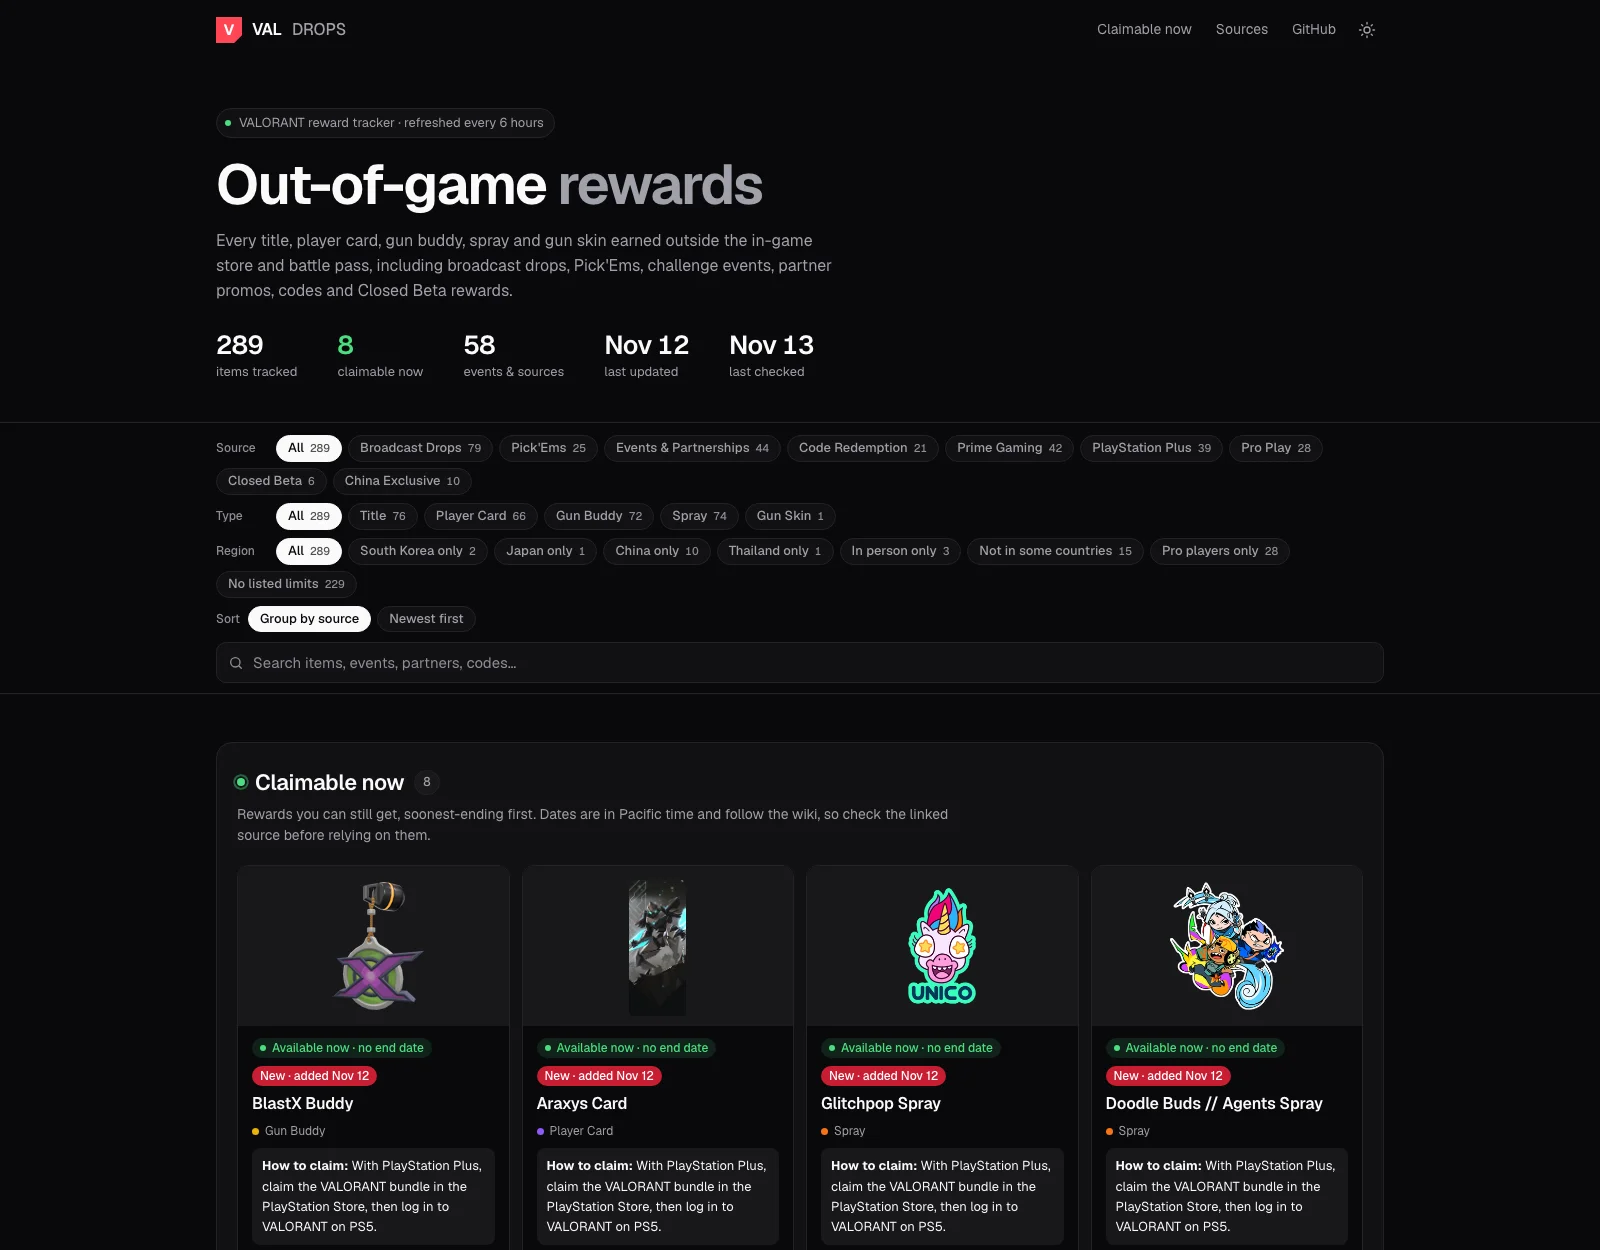
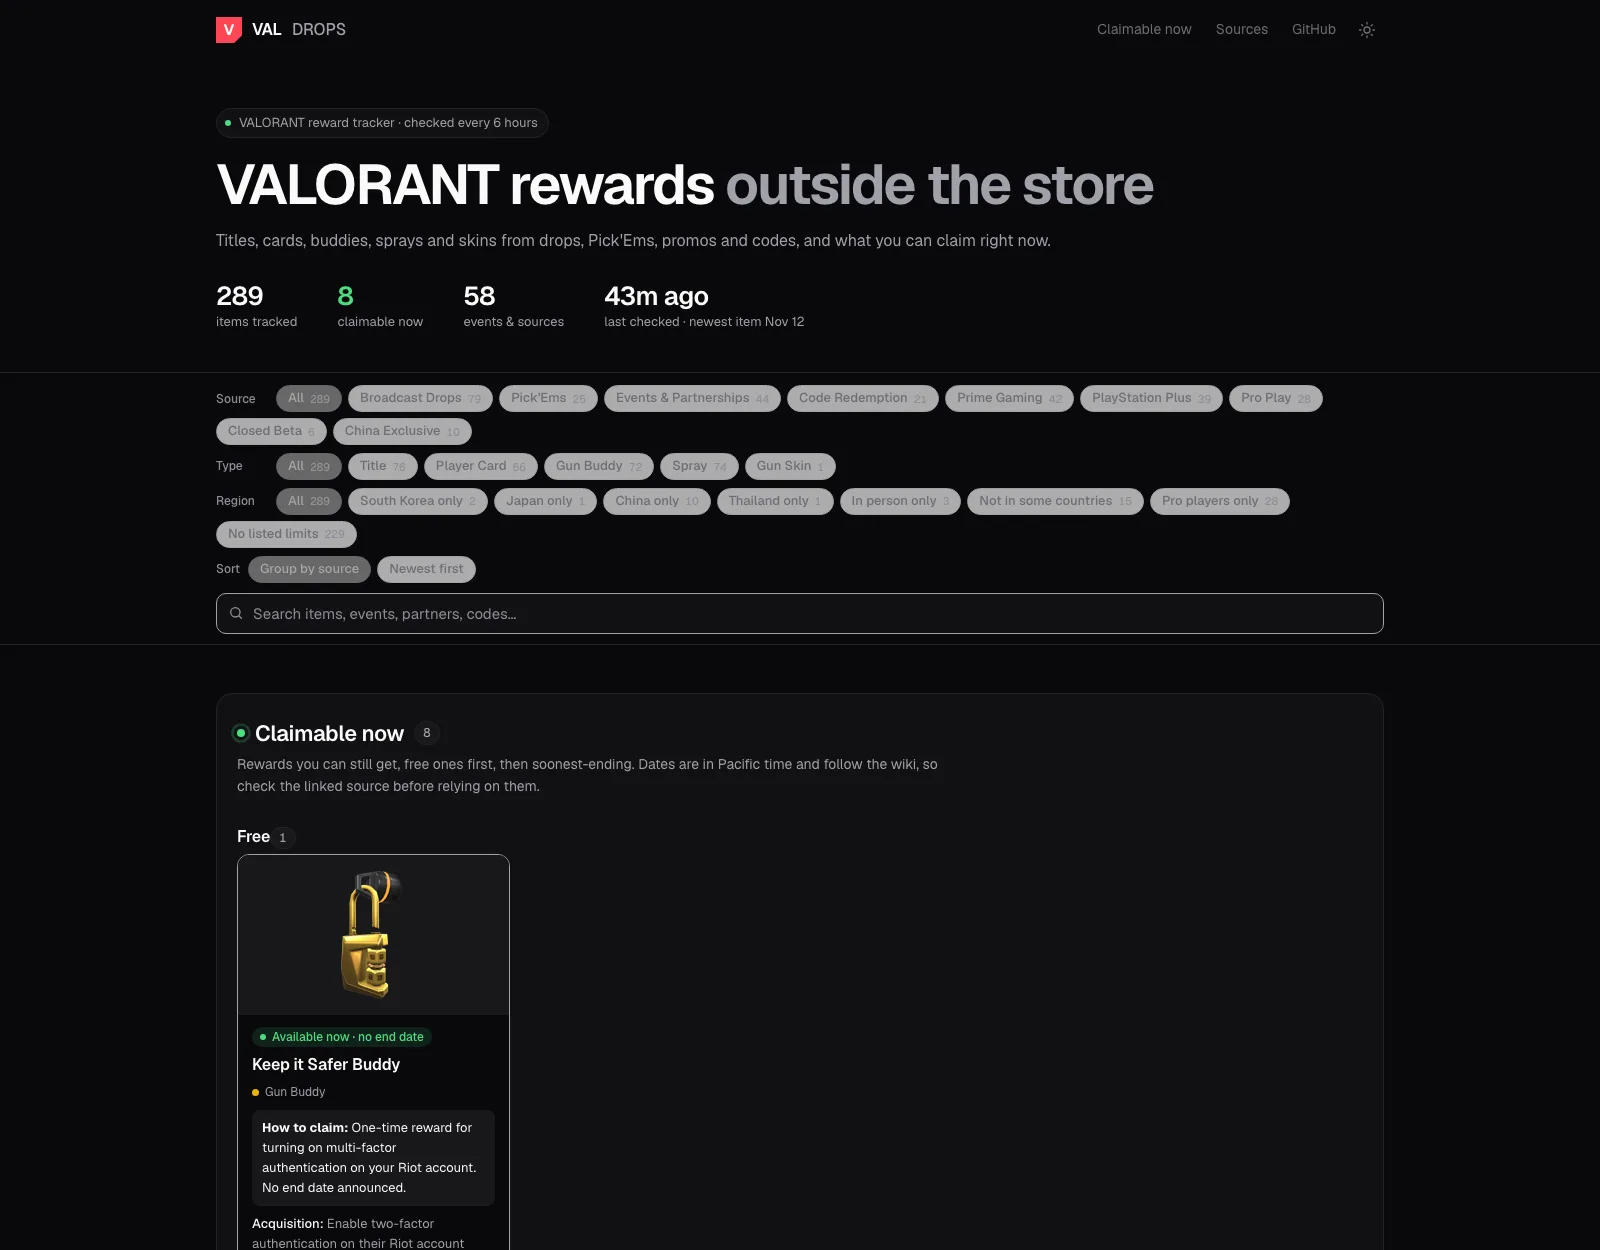
docs: README pitch and demo GIF, plain MIT license file
- LICENSE is now the plain MIT text so GitHub detects it (it showed
  "Other"). The note on what it covers moves to NOTICE.
- README opens with the VAL DROPS name, a one-line pitch and a demo GIF
  of the live site; screenshots refreshed for the redesign.
- Features list covers the free/paid split and the next drop countdown;
  "Recently added" mentions replaced, since that section was removed.
- Public data example shows the current count (289).

diff --git a/README.md b/README.md
@@ -1,8 +1,10 @@
 <div align="center">
 
-# VALORANT Out-of-Game Rewards
+# VAL DROPS
 
-**Every VALORANT cosmetic you can't buy in the store or unlock from a battle pass, tracked on one page.**
+**Every VALORANT title, card, buddy and spray you can't buy in the store, and which ones you can still claim right now.**
+
+A static site that scrapes the VALORANT Wiki every 6 hours, keeps the last good data when a scrape looks wrong, and publishes everything as a free JSON API and optional Discord alerts.
 
 Broadcast drops · Pick'Ems · Challenge events · Brand partnerships · Code redemptions · Prime Gaming · PS+ · Pro play · Closed Beta · China exclusives
 
@@ -13,10 +15,7 @@ Broadcast drops · Pick'Ems · Challenge events · Brand partnerships · Code re
 
 ### [chillaah.github.io/val-drops](https://chillaah.github.io/val-drops/)
 
-<picture>
-  <source media="(prefers-color-scheme: dark)" srcset="docs/screenshot-dark.webp">
-  <img src="docs/screenshot-light.webp" alt="VAL DROPS: the out-of-game rewards list with search, filters and the Claimable now section" width="800">
-</picture>
+<img src="docs/demo.gif" alt="VAL DROPS in use: scrolling the Claimable now section, opening an item and searching" width="800">
 
 </div>
 
@@ -37,13 +36,19 @@ Broadcast drops · Pick'Ems · Challenge events · Brand partnerships · Code re
 
 ## Features
 
-- **Claimable now.** Rewards you can still get, soonest-ending first, each with a countdown and a "how to claim" line. Upcoming rewards and public codes that may still work are listed too.
+<picture>
+  <source media="(prefers-color-scheme: dark)" srcset="docs/screenshot-dark.webp">
+  <img src="docs/screenshot-light.webp" alt="VAL DROPS home page: freshness stats, filters and the Claimable now section split into free and paid rewards" width="800">
+</picture>
+
+- **Claimable now.** Rewards you can still get, free ones first, then those that need a subscription or purchase (PS Plus, Prime Gaming, a partner offer), each with a countdown and a "how to claim" line. Public codes that may still work and upcoming rewards are listed too.
+- **Next drop.** When a reward window is scheduled, a countdown to it sits above Claimable now.
 - **Search and filters.** Search names, events, partners and codes. Filter by source, item type and region.
 - **Item pages.** Click any card for a larger image (plus the wide banner for player cards) and a shareable link such as [`?item=slime-mosh-buddy`](https://chillaah.github.io/val-drops/?item=slime-mosh-buddy).
 - **Redemption codes.** Every public code has a Copy button. Expired codes, and codes for Riot's old redemption site, are struck through.
 - **Region tags.** Items with a stated restriction (South Korea only, Japan only, China only, in person only, not available in some countries) are tagged. Tags only come from what the source says.
 - **One card per item.** An item you can get in several ways, like Slime Mosh (a Twitch drop and a Coinbase reward), appears once with an "Also from" list.
-- **Recently added and timeline.** Items first seen in the last 30 days that can be claimed now or soon get their own section (old items the wiki only just listed don't count), and [`?sort=newest`](https://chillaah.github.io/val-drops/?sort=newest) shows everything month by month.
+- **New badges and timeline.** Items first seen in the last 30 days that can be claimed now or soon get a "New" badge (old items the wiki only just listed don't count), and [`?sort=newest`](https://chillaah.github.io/val-drops/?sort=newest) shows everything month by month.
 - **Light and dark themes.** Follows your system setting until you pick one with the toggle in the header.
 - **Discord alerts.** New items, and items whose claim window just opened, can be posted to a Discord channel automatically ([setup](#discord-notifications)). Other servers can get the same alerts with one small workflow file ([how](#get-alerts-in-your-discord-server)).
 - **Event end times.** Drops that end with an event's final go offline a couple of hours after it, not at midnight. The build reads the grand final's scheduled start from the [official schedule](https://valorantesports.com) and sets the end to that + a full best-of-five (about 6¼ hours) + 2 hours for co-streamers. Each event needs one line in `events` in [`data/curated.json`](data/curated.json) with its tournament id. Without that line, or if the page can't be read, Drops from an event end at midnight in the host city. (vlr.gg has actual map times, but its terms forbid scripted access.)
@@ -76,8 +81,8 @@ Use it for Discord bots, trackers, spreadsheets or anything else. No key, no rat
 ```jsonc
 {
   "schemaVersion": 1,          // bumped only if a field is renamed or removed
-  "generated": "2026-11-02T05:19:10.153Z",
-  "count": 285,
+  "generated": "2026-11-25T15:36:00.914Z",
+  "count": 289,                // number of items in this file
   "items": [
     {
       "slug": "slime-mosh-buddy",            // stable id, also the site link: ?item=<slug>
@@ -124,7 +129,7 @@ Followers post whatever the live `data/items.json` contains. If production publi
 
 - Item data and images come from the **[VALORANT Wiki](https://wiki.playvalorant.com/en-us/)** through its MediaWiki API. The wiki is community-edited and run by Weird Gloop. **Riot doesn't run it.**
 - Each item also links to the **primary source** the wiki cites for it, where there is one: VALORANT Esports articles, PlayVALORANT news, Riot Support, official Riot/VCT social posts, or the partner's campaign page. Riot-owned links are marked ✓, matched on the whole hostname so a look-alike domain can't get the mark.
-- [`data/curated.json`](data/curated.json) holds items the wiki doesn't list yet, such as the ExpressVPN × VCT rewards. Every entry there must cite an official page. Its `dates` list fills in claim windows the wiki leaves out. A date that comes from leaks, game files or an estimate gets an `unconfirmed` reason: the item shows an "Unconfirmed date" badge with that reason, and stays out of Recently added and the Discord alerts. Comments and replies are never used as a source.
+- [`data/curated.json`](data/curated.json) holds items the wiki doesn't list yet, such as the ExpressVPN × VCT rewards. Every entry there must cite an official page. Its `dates` list fills in claim windows the wiki leaves out. A date that comes from leaks, game files or an estimate gets an `unconfirmed` reason: the item shows an "Unconfirmed date" badge with that reason, and gets no "New" badge and stays out of the Discord alerts. Comments and replies are never used as a source.
 - Claim dates follow the wiki and are in Pacific time. The site says so next to them and links the source to check. Notes the wiki keeps in tooltips, such as a claim window that was cut short, are shown next to the dates.
 
 **Wiki pages read:** [Broadcast Rewards](https://wiki.playvalorant.com/en-us/Broadcast_Rewards), [Prime Gaming Drops](https://wiki.playvalorant.com/en-us/Prime_Gaming_Drops), [VALORANT X PS+ Bundles](https://wiki.playvalorant.com/en-us/VALORANT_X_PS%2B_Bundles), [Closed Beta](https://wiki.playvalorant.com/en-us/Closed_Beta), [Pick'Ems](https://wiki.playvalorant.com/en-us/Pick'Ems), the two Conflict event pages, and the out-of-game sections of [Sprays](https://wiki.playvalorant.com/en-us/Sprays), [Buddies](https://wiki.playvalorant.com/en-us/Buddies), [Player Cards](https://wiki.playvalorant.com/en-us/Player_Cards) and [Player Titles](https://wiki.playvalorant.com/en-us/Player_Titles) (Channel Drops, Shotcall Extension, Challenge Events, Code Redemption, Pick'Ems, Prime Gaming Drops, Pro play, Miscellaneous, China-Exclusive).
@@ -198,7 +203,7 @@ data/curated.json                hand-added items the wiki doesn't have yet
 data/alerts.json                 pause switch for other servers' Discord alerts
 examples/discord-alerts.yml      workflow other servers copy to get Discord alerts
 img/                             item images saved from the wiki
-docs/                            README screenshots (not deployed)
+docs/                            README screenshots and demo GIF (not deployed)
 scripts/build-data.mjs           wiki scraper
 scripts/export-json.mjs          writes data/items.json
 scripts/check-data.mjs           blocks publishing if a scrape looks broken or an edit needs review
@@ -236,7 +241,7 @@ Not a developer? [Open an issue](https://github.com/chillaah/val-drops/issues/ne
 
 ### Discord notifications
 
-When the update job finds new items, or an item's claim window has opened since the last successful run (like a Drop that starts on a set day), it posts each one to a Discord channel with its image, dates or how to get it, primary source, and a link to the item on the site. Only items claimable now or soon are posted (the same rule as "Recently added"), so old or undated items the wiki only just listed China-only items and items with an unconfirmed date are left out, and an item the wiki only moved to another section doesn't count as new. Image links point at the exact commit, so they keep working after later runs convert or prune images.
+When the update job finds new items, or an item's claim window has opened since the last successful run (like a Drop that starts on a set day), it posts each one to a Discord channel with its image, dates or how to get it, primary source, and a link to the item on the site. Only items claimable now or soon are posted (the same rule as the "New" badge), so old or undated items the wiki only just listed, China-only items and items with an unconfirmed date are left out, and an item the wiki only moved to another section doesn't count as new. Image links point at the exact commit, so they keep working after later runs convert or prune images.
 
 1. In Discord, open **Server Settings → Integrations → Webhooks → New Webhook**, pick the channel and copy the webhook URL.
 2. In this repo, add it under **Settings → Secrets and variables → Actions** as `DISCORD_WEBHOOK_URL`.
@@ -248,7 +253,7 @@ If the secret isn't set, the step is skipped. A run with more than 25 new items 
 
 ## License
 
-- **Code:** [MIT](LICENSE).
+- **Code:** [MIT](LICENSE). [NOTICE](NOTICE) says which files that covers.
 - **Item data** (including `data/items.json`): from the VALORANT Wiki under [CC BY-SA 3.0](https://creativecommons.org/licenses/by-sa/3.0/).
 - **Fonts:** Geist and Geist Mono, under the [SIL Open Font License](assets/fonts/OFL.txt).
 
